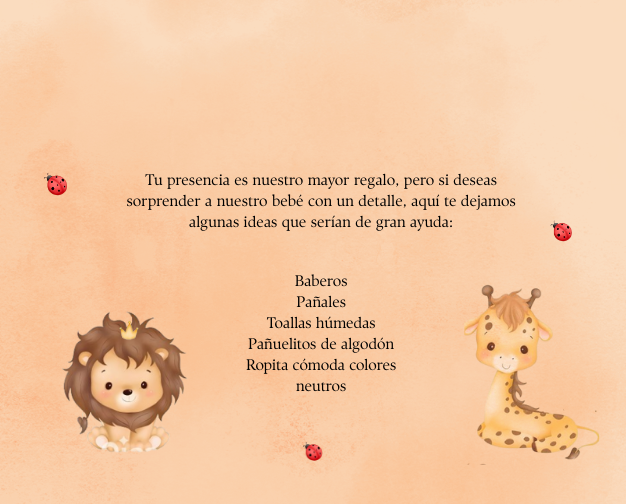
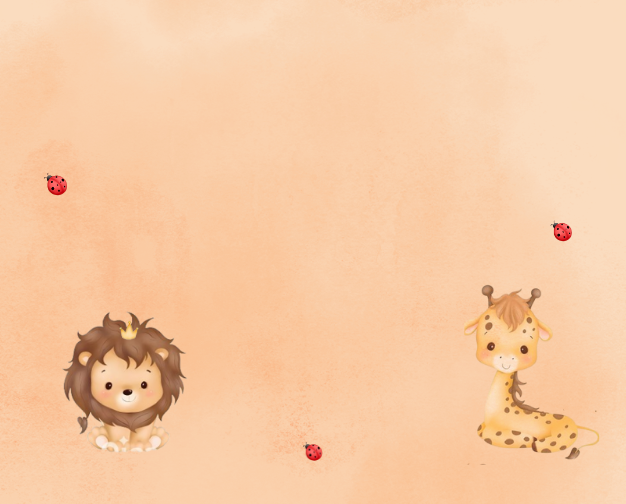
Descripcion de texto en sugerencia actualizado

Changed region(s): [[0.1821, 0.3274, 0.8195, 0.4762], [0.3946, 0.5357, 0.6374, 0.7738]]

diff --git a/styles/index.css b/styles/index.css
@@ -105,6 +105,10 @@ body{
 }
 
 .card_text.sugerencia{
+    width: 100%;
+    position: relative;
+}
+.card_text.sugerencia .sug{
     font-family: dancing;
     font-size: 3.5rem;
     text-align: center;
@@ -118,6 +122,30 @@ body{
     animation-timeline: view();
     animation-range: entry 50% cover 30%;
 }
+.card_text.sugerencia .sug_text{
+    font-family: young;
+    font-size: .9rem;
+    top: 150px;
+    position: absolute;
+    width: 80%;
+    text-align: center;
+    top: 130px;
+    left: 50%;
+    transform: translateX(-50%);
+}
+.card_text.sugerencia .sug_list{
+    position: absolute;
+    width: 80%;
+    text-align: center;
+    top: 215px;
+    font-size: .9rem;
+    line-height: 1.4rem;
+    left: 50%;
+    font-family: young;
+    display: grid;
+    transform: translateX(-50%);
+}
+
 .card_text.recepcion{
     font-family: dancing;
     font-size: 4.4rem;

diff --git a/index.html b/index.html
@@ -66,7 +66,15 @@
 
         <div class="card">
             <div class="card_text sugerencia">
-                <p>Sugerencia de regalo</p>
+                <p class="sug">Sugerencia de regalo</p>
+                <p class="sug_text">Tu presencia es nuestro mayor regalo, pero si deseas sorprender a nuestro bebé con un detalle, aquí te dejamos algunas ideas que serían de gran ayuda: </p>
+                <p class="sug_list">
+                    <span>Baberos</span>
+                    <span>Pañales</span>
+                    <span>Toallas hùmedas</span>
+                    <span>Pañuelitos de algodón</span>
+                    <span>Ropita cómoda colores neutros</span>
+                </p>
             </div>
             <div class="card_image">
                 <img src="assets/PAG 5.png" alt="imagen_fondo_baby_shower">
